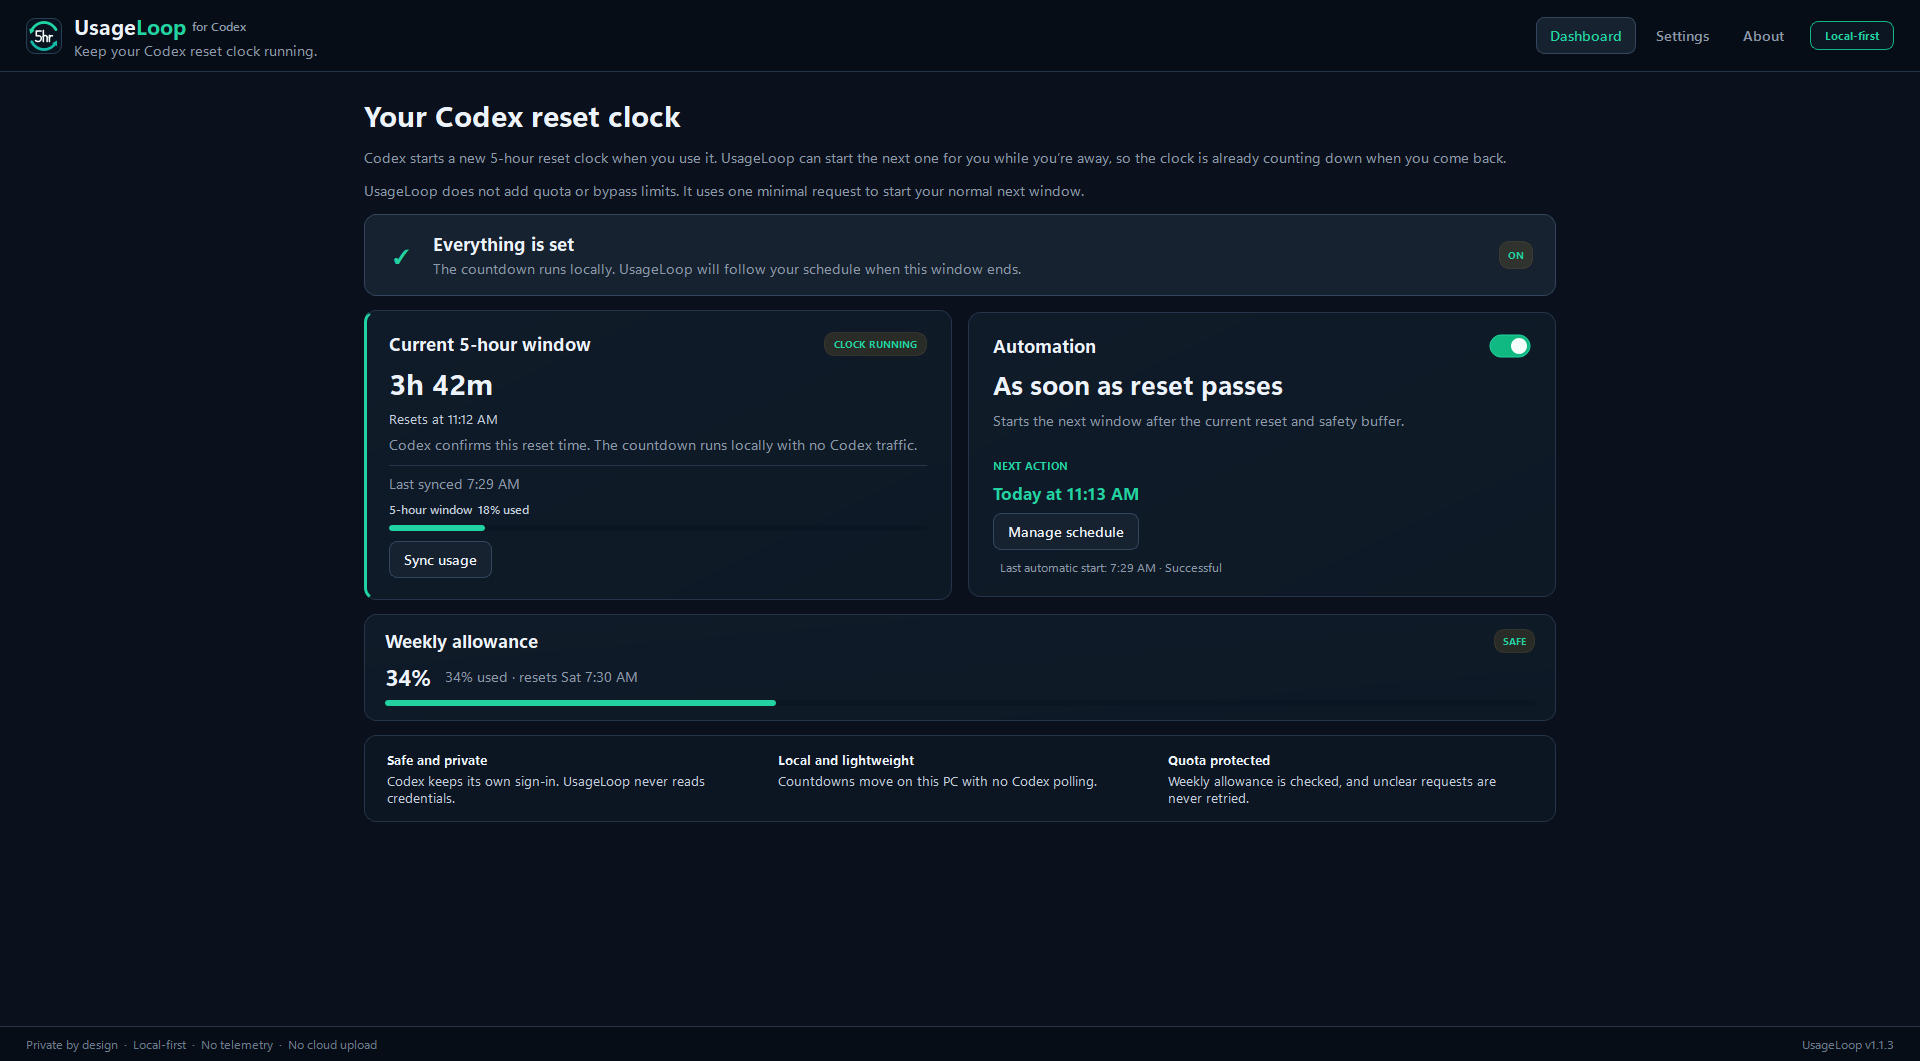
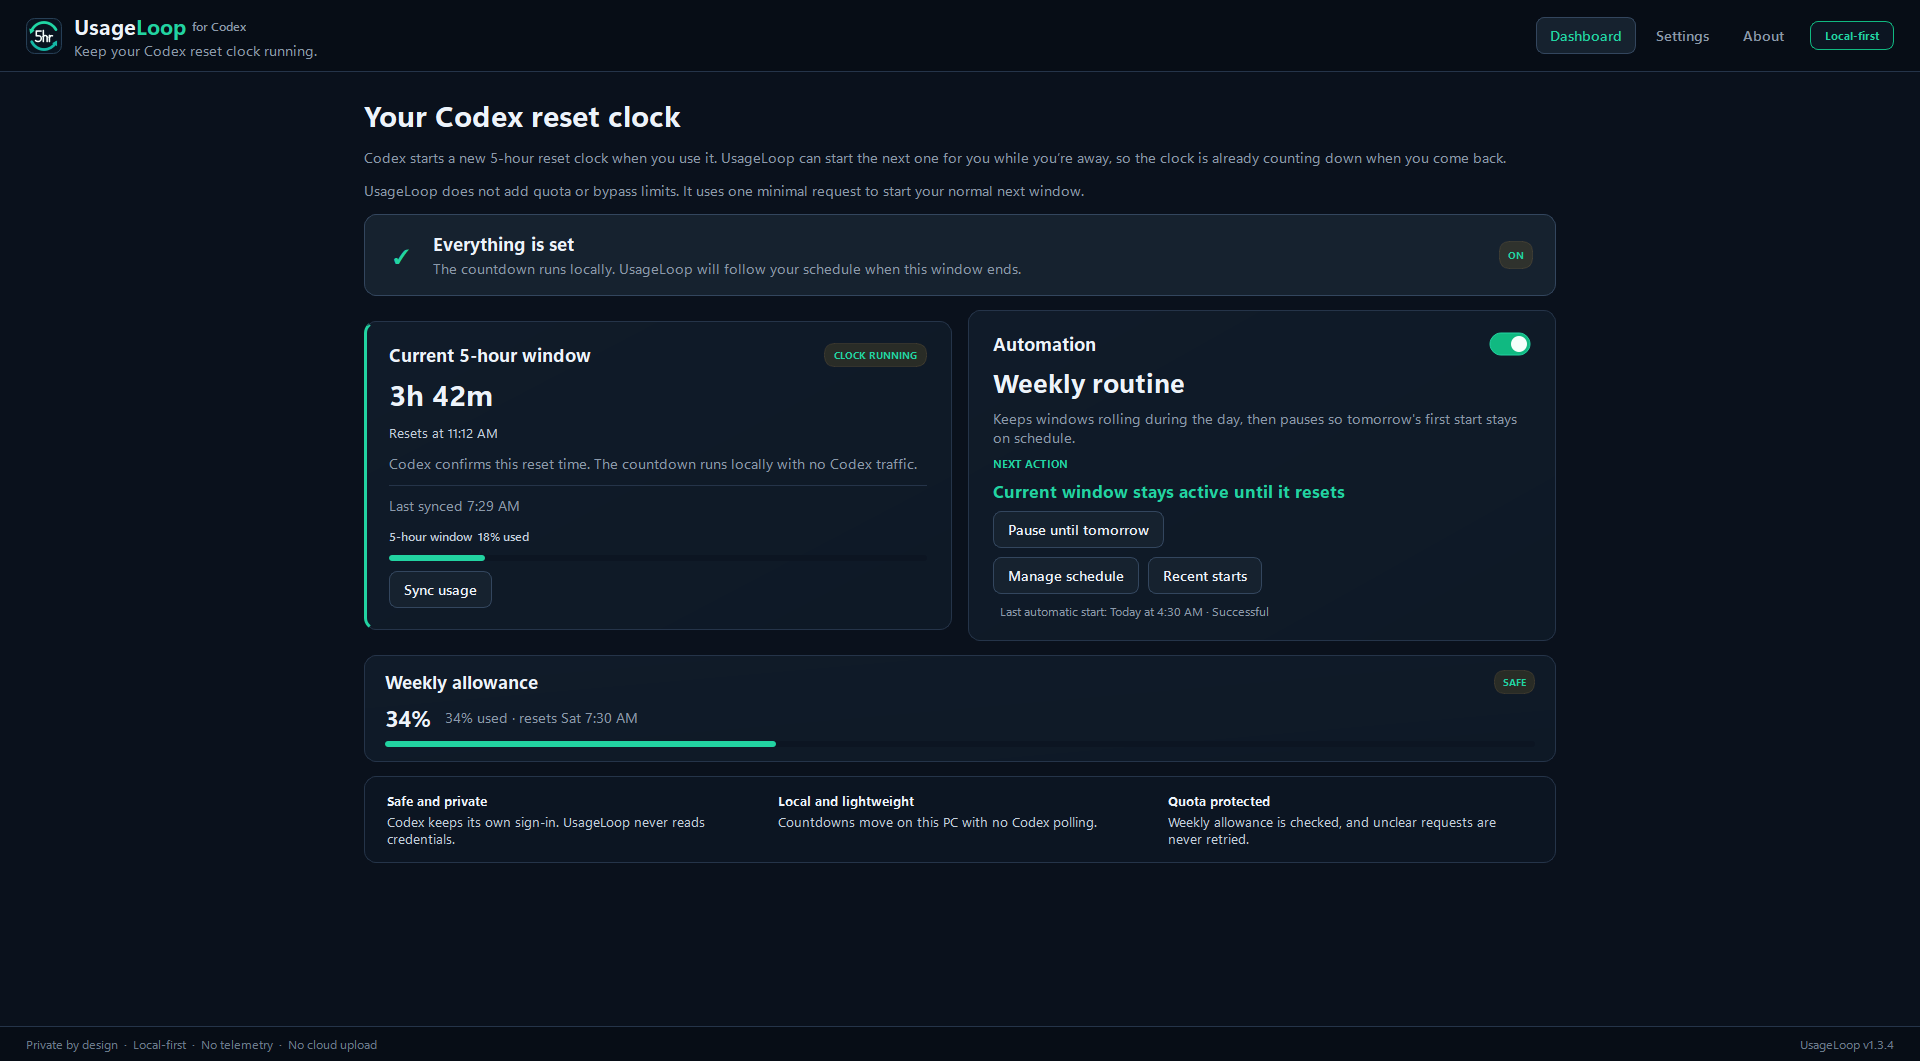
Add screenshot lightbox and refresh images

diff --git a/docs/index.html b/docs/index.html
@@ -23,7 +23,8 @@
   <meta name="twitter:image" content="https://benthompsondev.github.io/usageloop/social-preview.png">
 
   <link rel="icon" href="favicon.ico" sizes="any">
-  <link rel="stylesheet" href="styles.css">
+  <link rel="stylesheet" href="styles.css?v=lightbox">
+  <script src="lightbox.js?v=lightbox" defer></script>
 
   <script type="application/ld+json">
   {
@@ -85,7 +86,7 @@
           <li>Open source</li>
         </ul>
       </div>
-      <a class="hero-shot" href="screenshots/dashboard-1600x900.png" aria-label="Open the full UsageLoop dashboard screenshot">
+      <a class="hero-shot" href="screenshots/dashboard-1600x900.png" aria-label="Open the full UsageLoop dashboard screenshot" data-lightbox>
         <img src="screenshots/dashboard-1600x900.png" width="1600" height="900" alt="UsageLoop dashboard showing a running Codex 5-hour window, weekly usage, and the next scheduled action">
       </a>
     </section>
@@ -121,7 +122,7 @@
         <h2 id="weekly-title">Set a routine that matches your week</h2>
         <p>Most people do not start work at the same time seven days a week. Give weekdays one first-start time and weekends another, then override any single day if you want to.</p>
       </div>
-      <a href="screenshots/settings-weekly-expanded.png" aria-label="Open the full UsageLoop Weekly routine screenshot">
+      <a href="screenshots/settings-weekly-expanded.png" aria-label="Open the full UsageLoop Weekly routine screenshot" data-lightbox>
         <img class="product-shot" src="screenshots/settings-weekly-expanded.png" width="1366" height="900" loading="lazy" alt="UsageLoop Weekly routine settings with separate weekday and weekend first-start times, per-day overrides for all seven days, and a Next routine card showing first start, next reset, and overnight pause">
       </a>
       <div class="weekly-points">
@@ -132,7 +133,7 @@
       </div>
       <p>Need a day off? <strong>Pause until tomorrow</strong> waits until tomorrow's configured first-start time without changing your routine. You can resume early from the Dashboard or tray.</p>
       <p><strong>Recent starts</strong> shows your last ten window-start attempts from the Dashboard or tray. See which starts were confirmed, not sent, or left uncertain. It reads existing local history and makes no Codex requests.</p>
-      <a class="screenshot-link" href="screenshots/recent-starts.png" aria-label="Open the Recent starts screenshot">
+      <a class="screenshot-link" href="screenshots/recent-starts.png" aria-label="Open the Recent starts screenshot" data-lightbox>
         <img class="product-shot" src="screenshots/recent-starts.png" alt="Recent starts showing a confirmed window start and an earlier unconfirmed attempt" loading="lazy" width="660" height="640" style="max-width: 660px">
       </a>
     </section>
@@ -275,5 +276,17 @@
     <p>UsageLoop is an independent open-source project. It is not affiliated with, endorsed by, or sponsored by OpenAI.</p>
     <p>Built by <a href="https://benthompsondev.github.io/">Ben Thompson</a> · <a href="https://github.com/benthompsondev">GitHub profile</a> · <a href="https://github.com/sponsors/benthompsondev">Support on GitHub Sponsors</a> · <a href="https://github.com/benthompsondev/usageloop/blob/main/LICENSE">MIT License</a></p>
   </footer>
+
+  <dialog class="lightbox" aria-label="Screenshot viewer">
+    <div class="lightbox-toolbar">
+      <p class="lightbox-status" aria-live="polite"></p>
+      <button class="lightbox-button lightbox-close" type="button" aria-label="Close screenshot">&times;</button>
+    </div>
+    <button class="lightbox-button lightbox-previous" type="button" aria-label="Previous screenshot">&#8249;</button>
+    <figure class="lightbox-figure">
+      <img class="lightbox-image" alt="">
+    </figure>
+    <button class="lightbox-button lightbox-next" type="button" aria-label="Next screenshot">&#8250;</button>
+  </dialog>
 </body>
 </html>

diff --git a/docs/styles.css b/docs/styles.css
@@ -58,6 +58,10 @@ img {
   height: auto;
 }
 
+body.lightbox-open {
+  overflow: hidden;
+}
+
 .skip-link {
   position: fixed;
   top: 0.75rem;
@@ -409,6 +413,109 @@ h2 {
   box-shadow: 0 24px 70px rgba(0, 0, 0, 0.3);
 }
 
+.lightbox {
+  width: 100vw;
+  max-width: none;
+  height: 100dvh;
+  max-height: none;
+  margin: 0;
+  padding: 0;
+  border: 0;
+  background: rgba(3, 8, 14, 0.94);
+  color: var(--text);
+}
+
+.lightbox[open] {
+  display: grid;
+  grid-template: 64px minmax(0, 1fr) 32px / 72px minmax(0, 1fr) 72px;
+}
+
+.lightbox::backdrop {
+  background: transparent;
+}
+
+.lightbox-toolbar {
+  grid-column: 1 / -1;
+  display: flex;
+  align-items: center;
+  justify-content: flex-end;
+  gap: 1rem;
+  padding: 0.5rem 1rem;
+}
+
+.lightbox-status {
+  margin: 0;
+  color: var(--text-soft);
+  font-size: 0.88rem;
+}
+
+.lightbox-button {
+  display: inline-flex;
+  align-items: center;
+  justify-content: center;
+  width: 48px;
+  height: 48px;
+  padding: 0;
+  border: 1px solid var(--border-strong);
+  border-radius: 50%;
+  background: var(--surface-raised);
+  color: var(--text);
+  font: inherit;
+  line-height: 1;
+  cursor: pointer;
+}
+
+.lightbox-button:hover {
+  border-color: var(--accent);
+  background: var(--surface);
+}
+
+.lightbox-button:focus-visible {
+  outline: 3px solid var(--warning);
+  outline-offset: 3px;
+}
+
+.lightbox-close {
+  font-size: 2rem;
+}
+
+.lightbox-previous,
+.lightbox-next {
+  align-self: center;
+  justify-self: center;
+  font-size: 2.5rem;
+}
+
+.lightbox-previous {
+  grid-column: 1;
+  grid-row: 2;
+}
+
+.lightbox-next {
+  grid-column: 3;
+  grid-row: 2;
+}
+
+.lightbox-figure {
+  grid-column: 2;
+  grid-row: 2;
+  display: flex;
+  align-items: center;
+  justify-content: center;
+  min-width: 0;
+  min-height: 0;
+  margin: 0;
+}
+
+.lightbox-image {
+  max-width: 100%;
+  max-height: 100%;
+  border: 1px solid var(--border-strong);
+  border-radius: 10px;
+  box-shadow: 0 24px 80px rgba(0, 0, 0, 0.55);
+  object-fit: contain;
+}
+
 .weekly-points {
   display: grid;
   grid-template-columns: repeat(2, minmax(0, 1fr));
@@ -648,5 +755,28 @@ footer p {
 
   .section {
     padding: 4.5rem 0;
+  }
+
+  .lightbox[open] {
+    grid-template: 60px minmax(0, 1fr) 24px / 56px minmax(0, 1fr) 56px;
+  }
+
+  .lightbox-toolbar {
+    padding-inline: 0.5rem;
+  }
+
+  .lightbox-button {
+    width: 44px;
+    height: 44px;
+  }
+
+  .lightbox-previous,
+  .lightbox-next {
+    z-index: 1;
+  }
+
+  .lightbox-figure {
+    grid-column: 1 / -1;
+    padding-inline: 0.5rem;
   }
 }

diff --git a/docs/lightbox.js b/docs/lightbox.js
@@ -1,0 +1,81 @@
+(() => {
+  const dialog = document.querySelector(".lightbox");
+  const links = Array.from(document.querySelectorAll("[data-lightbox]"));
+
+  if (!dialog || !links.length || typeof dialog.showModal !== "function") {
+    return;
+  }
+
+  const image = dialog.querySelector(".lightbox-image");
+  const status = dialog.querySelector(".lightbox-status");
+  const closeButton = dialog.querySelector(".lightbox-close");
+  const previousButton = dialog.querySelector(".lightbox-previous");
+  const nextButton = dialog.querySelector(".lightbox-next");
+  let currentIndex = 0;
+  let opener = null;
+
+  const showScreenshot = (index) => {
+    currentIndex = (index + links.length) % links.length;
+    const link = links[currentIndex];
+    const thumbnail = link.querySelector("img");
+    image.src = link.href;
+    image.alt = thumbnail?.alt || "UsageLoop screenshot";
+    status.textContent = `Screenshot ${currentIndex + 1} of ${links.length}`;
+  };
+
+  const closeLightbox = () => {
+    if (dialog.open) {
+      dialog.close();
+    }
+  };
+
+  links.forEach((link, index) => {
+    link.addEventListener("click", (event) => {
+      if (event.button !== 0 || event.metaKey || event.ctrlKey || event.shiftKey || event.altKey) {
+        return;
+      }
+
+      event.preventDefault();
+      opener = link;
+      showScreenshot(index);
+      document.body.classList.add("lightbox-open");
+      dialog.showModal();
+      closeButton.focus();
+    });
+  });
+
+  closeButton.addEventListener("click", closeLightbox);
+  previousButton.addEventListener("click", () => showScreenshot(currentIndex - 1));
+  nextButton.addEventListener("click", () => showScreenshot(currentIndex + 1));
+
+  dialog.addEventListener("click", (event) => {
+    if (!event.target.closest(".lightbox-image, .lightbox-button")) {
+      closeLightbox();
+    }
+  });
+
+  dialog.addEventListener("cancel", (event) => {
+    event.preventDefault();
+    closeLightbox();
+  });
+
+  dialog.addEventListener("close", () => {
+    document.body.classList.remove("lightbox-open");
+    image.removeAttribute("src");
+    opener?.focus({ preventScroll: true });
+  });
+
+  document.addEventListener("keydown", (event) => {
+    if (!dialog.open) {
+      return;
+    }
+
+    if (event.key === "ArrowLeft") {
+      event.preventDefault();
+      showScreenshot(currentIndex - 1);
+    } else if (event.key === "ArrowRight") {
+      event.preventDefault();
+      showScreenshot(currentIndex + 1);
+    }
+  });
+})();

diff --git a/README.md b/README.md
@@ -31,7 +31,7 @@ your account has no five-hour window, this scheduling feature does not apply.
 
 ![UsageLoop dashboard showing an active five-hour window and the next scheduled action](docs/screenshots/dashboard.png)
 
-Screenshots use synthetic usage data: v1.3.3 on Windows and v1.3.4 on Linux.
+Screenshots use synthetic usage data from v1.3.4 on Windows and Linux.
 Both platforms use the same interface.
 
 - Native x64 Windows and Linux builds with a quiet system tray mode
